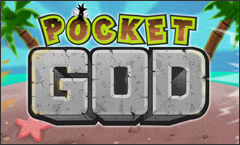
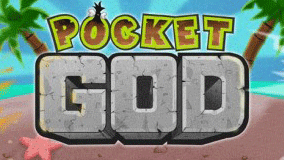
Update thumbnails

diff --git a/content/archive/development/tools/xjsfl/index.md b/content/archive/development/tools/xjsfl/index.md
@@ -1,8 +1,6 @@
 ---
 description: JSFL framework to create tools for the Flash authoring environment
 date: 2011-01-01
-images:
-  thumbnail: ./images/xjsfl-logo.png
 tags:
   - frontend
   - framework
@@ -18,7 +16,7 @@ tags:
   - technical
   - ui
 media:
-  thumbnail: ./images/xjsfl-logo.png
+  thumbnail: ./images/xjsfl-logo-wide.png
   gallery:
     - ./images/xjsfl-screen-01.jpg
     - ./images/xjsfl-screen-02.jpg
